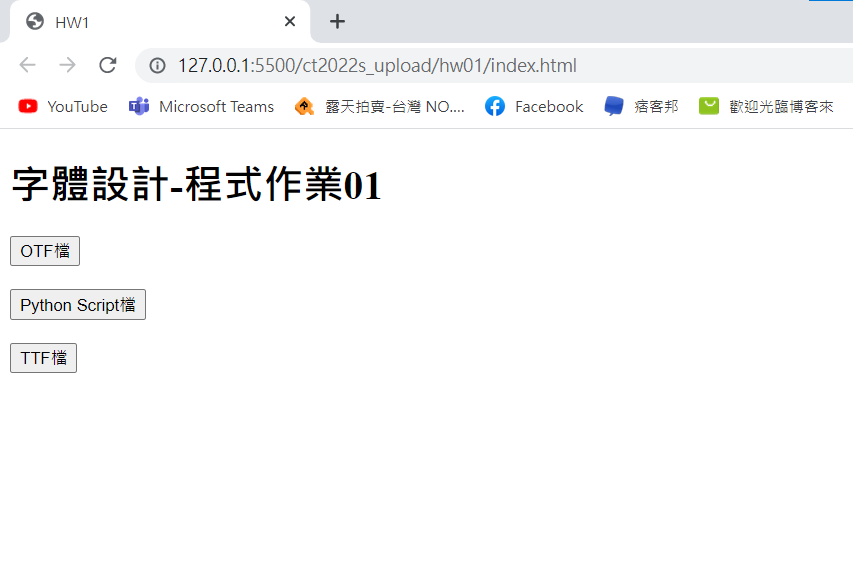
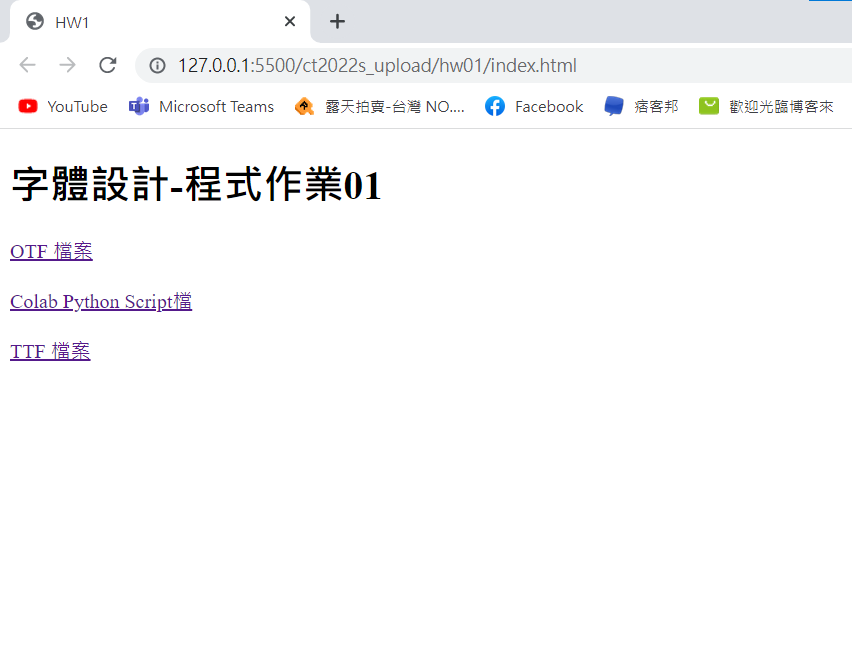
open with new tab

diff --git a/hw01/index.html b/hw01/index.html
@@ -5,17 +5,16 @@
 </head>
 <body>
 	<h1>字體設計-程式作業01</h1>
-	<h4 style="color:red">請以新分頁形式開啟連結</h4>
 	<div id="otf">
-		<a href="https://drive.google.com/file/d/1OV4QIjw8i0EVpkDePiCVt9UrqWChjKzH/view?usp=sharing">OTF 檔案</a>
+		<a href="https://drive.google.com/file/d/1OV4QIjw8i0EVpkDePiCVt9UrqWChjKzH/view?usp=sharing" target="blank">OTF 檔案</a>
 	</div>
 	<br/>
 	<div id="pyScript">
-		<a href="https://colab.research.google.com/drive/11JDJE4A36ejEPqrVMpnLpJvOGVPh5c8Y?usp=sharing">Colab Python Script檔</a>
+		<a href="https://colab.research.google.com/drive/11JDJE4A36ejEPqrVMpnLpJvOGVPh5c8Y?usp=sharing" target="blank">Colab Python Script檔</a>
 	</div>
 	<br/>
 	<div id="ttf">
-		<a href="https://drive.google.com/file/d/1OwNWJWV7jHJJ2efig3t2zMPmSS3KFg6Y/view?usp=sharing">TTF 檔案</a>
+		<a href="https://drive.google.com/file/d/1OwNWJWV7jHJJ2efig3t2zMPmSS3KFg6Y/view?usp=sharing" target="blank">TTF 檔案</a>
 	</div>
 	
 </body>
